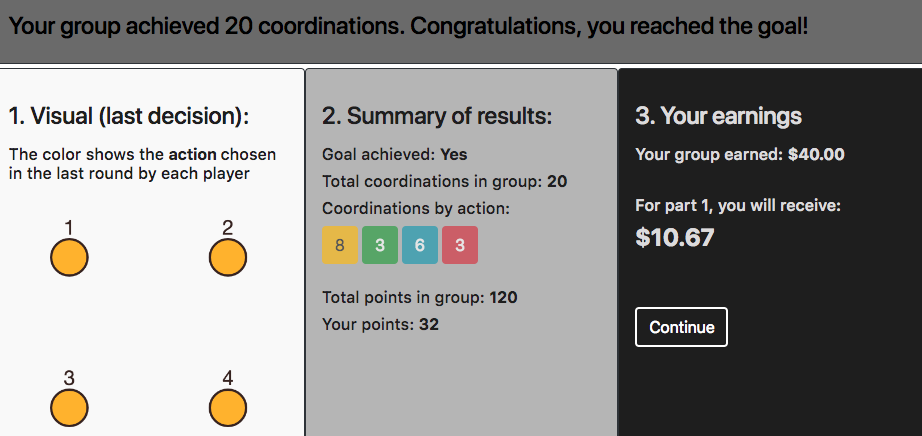
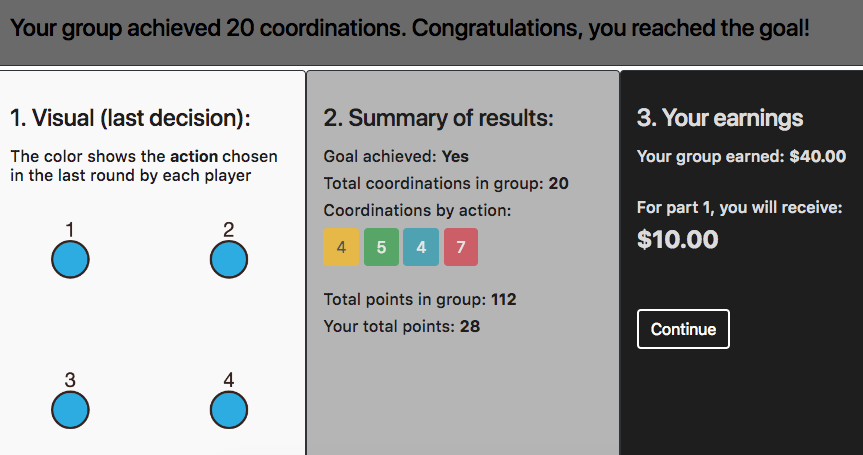
update

diff --git a/group_spillover/templates/group_spillover/FirstSignal.html b/group_spillover/templates/group_spillover/FirstSignal.html
@@ -38,6 +38,9 @@
             <br>
             {% endif %}
             </h4>
+            <h5 id="brown">
+                You earn <b>{{ player.old_points }}</b> points from the previous round.
+            </h5>
         </div>
     </div>
     {% else %}
@@ -73,10 +76,10 @@
             <p id="brown">
                 <h6 id="brown">
                 Goal achieved:
-                {% if group.goal_achieved == 1 %}
-                <b style='color: #5d4037'> Yes </b>
+                {% if group.old_goal_achieved != 0 %}
+                    <b style='color: #5d4037'> Yes </b>
                 {% else %}
-                <b style='color: #5d4037'> No </b>
+                    <b style='color: #5d4037'> No </b>
                 {% endif %}
                 </h6>
                 <h6 id="brown">
@@ -95,7 +98,7 @@
                     <b style='color: #5d4037'> {{ group.old_group_total_points }} </b>
                 </h6>
                 <h6 id="brown">
-                Your points:
+                Your total points:
                     <b style='color: #5d4037'> {{ player.old_total_points }} </b>
                 </h6>
             </p>

diff --git a/group_spillover/templates/group_spillover/Action.html b/group_spillover/templates/group_spillover/Action.html
@@ -37,7 +37,7 @@
             <p id="brown">
                 <h6 id="brown">
                 Goal achieved:
-                {% if group.goal_achieved == 1 %}
+                {% if group.old_goal_achieved == 1 %}
                 <b style='color: #5d4037'> Yes </b>
                 {% else %}
                 <b style='color: #5d4037'> No </b>
@@ -59,7 +59,7 @@
                     <b style='color: #5d4037'> {{ group.old_group_total_points }} </b>
                 </h6>
                 <h6 id="brown">
-                Your points:
+                Your total points:
                     <b style='color: #5d4037'> {{ player.old_total_points }} </b>
                 </h6>
             </p>

diff --git a/group_spillover/templates/group_spillover/SecondSignal.html b/group_spillover/templates/group_spillover/SecondSignal.html
@@ -37,7 +37,7 @@
             <p id="brown">
                 <h6 id="brown">
                 Goal achieved:
-                {% if group.goal_achieved == 1 %}
+                {% if group.old_goal_achieved == 1 %}
                 <b style='color: #5d4037'> Yes </b>
                 {% else %}
                 <b style='color: #5d4037'> No </b>
@@ -59,7 +59,7 @@
                     <b style='color: #5d4037'> {{ group.old_group_total_points }} </b>
                 </h6>
                 <h6 id="brown">
-                Your points:
+                Your total points:
                     <b style='color: #5d4037'> {{ player.old_total_points }} </b>
                 </h6>
             </p>

diff --git a/group_spillover/templates/group_spillover/Results.html b/group_spillover/templates/group_spillover/Results.html
@@ -73,7 +73,7 @@
                     <b id="highlight"> {{ group.group_total_points }} </b>
                 </h6>
                 <h6 id="highlight">
-                Your points:
+                Your total points:
                     <b id="highlight"> {{ player.total_points }} </b>
                 </h6>
             </p>

diff --git a/group_spillover/pages.py b/group_spillover/pages.py
@@ -17,15 +17,18 @@ class BeforeSignalWP(WaitPage):
         for player in self.group.get_players():
             if self.round_number > 1:
                 player.old_action = player.in_round(self.round_number - 1).action
+                player.old_points = player.in_round(self.round_number - 1).points
                 player.old_total_points = player.in_round(self.round_number - 1).total_points
             else:
                 player.old_action = 0
+                player.old_points = 0
                 player.old_total_points = 0
 
         self.group.displaying_network()
         if self.round_number > 1:
             self.group.old_coordination = self.group.in_round(self.round_number - 1).coordination
             self.group.old_total_coordination = self.group.in_round(self.round_number - 1).total_coordination
+            self.group.old_goal_achieved = self.group.in_round(self.round_number - 1).goal_achieved
             self.group.old_win = self.group.in_round(self.round_number - 1).win
             self.group.old_total_win_one = self.group.in_round(self.round_number - 1).total_win_one
             self.group.old_total_win_two = self.group.in_round(self.round_number - 1).total_win_two
@@ -35,6 +38,7 @@ class BeforeSignalWP(WaitPage):
         else:
             self.group.old_coordination = 0
             self.group.old_total_coordination = 0
+            self.group.old_goal_achieved = 0
             self.group.old_group_total_points = 0
             self.group.old_win = 0
             self.group.old_total_win_one = 0
@@ -89,6 +93,7 @@ class ResultsWaitPage(WaitPage):
         self.group.set_coordination()
         self.group.total_points()
         self.group.total_values()
+        self.group.goal_achievement()
         self.group.finalpay_value()
         self.group.payoff_value()
 

diff --git a/group_spillover/models.py b/group_spillover/models.py
@@ -88,6 +88,7 @@ class Group(BaseGroup):
     win_three = models.IntegerField(initial=0)
     win_four = models.IntegerField(initial=0)
     goal_achieved = models.IntegerField(initial=0)
+    old_goal_achieved = models.IntegerField(initial=0)
     group_points = models.IntegerField(initial=0)
     group_total_points = models.IntegerField(initial=0)
     old_group_total_points = models.IntegerField(initial=0)
@@ -146,15 +147,17 @@ class Group(BaseGroup):
 
     def total_values(self):
         self.total_coordination = sum([g.coordination for g in self.in_all_rounds()])
-        if self.total_coordination >= Constants.goal_value:
-            self.goal_achieved = 1
-        else:
-            self.goal_achieved = 0
         self.group_total_points = sum([g.group_points for g in self.in_all_rounds()])
         self.total_win_one = sum([g.win_one for g in self.in_all_rounds()])
         self.total_win_two = sum([g.win_two for g in self.in_all_rounds()])
         self.total_win_three = sum([g.win_three for g in self.in_all_rounds()])
         self.total_win_four = sum([g.win_four for g in self.in_all_rounds()])
+
+    def goal_achievement(self):
+        if self.total_coordination >= Constants.goal_value:
+            self.goal_achieved = 1
+        else:
+            self.goal_achieved = 0
 
     def total_points(self):
         players = self.get_players()
@@ -194,6 +197,7 @@ class Player(BasePlayer):
     action_three = models.IntegerField(initial=0)
     action_four = models.IntegerField(initial=0)
     points = models.IntegerField()
+    old_points = models.IntegerField(initial=0)
     total_points = models.IntegerField(initial=0)
     old_total_points = models.IntegerField(initial=0)
     is_winner = models.BooleanField()
